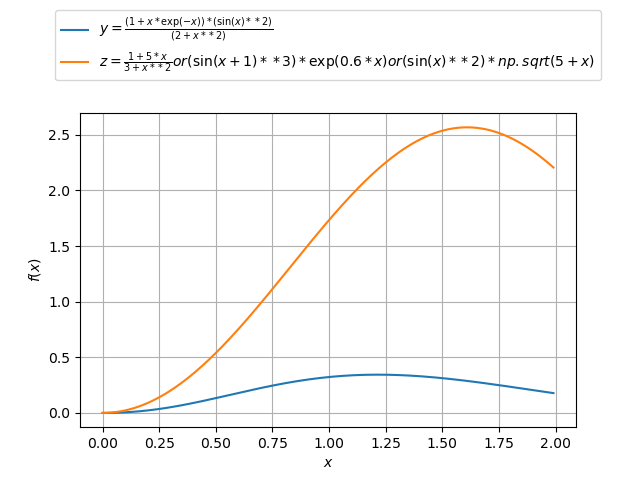
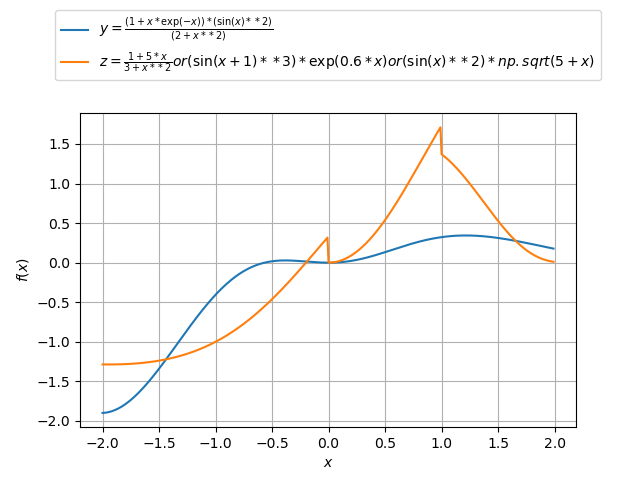
Commit Visualization lab1

diff --git a/src/edu/ua/khpi/infiz/visualization/lab1/main.py b/src/edu/ua/khpi/infiz/visualization/lab1/main.py
@@ -2,28 +2,32 @@ from matplotlib.ticker import MaxNLocator, FormatStrFormatter
 from collections import namedtuple
 from mpl_toolkits.mplot3d import Axes3D
 import matplotlib.pyplot as plt
-#from pylatex import *
 from matplotlib import cm
 from matplotlib.ticker import LinearLocator
 import numpy as np
 import matplotlib.pyplot as plt
 
-x = np.arange(0, 2, 0.01)
+x = np.arange(-2, 2, 0.01)
 y = (1 + x * np.exp(-x)) * (np.sin(x) ** 2) / (2 + x ** 2)
-def z_func():
-    z = 0
-    if x.all() <0:
+def z_func(x):
+    if x <0:
         z=(1+5*x)/(3+x**2)
-    elif x.all() >= 1:
+
+    elif x >= 1:
         z= (np.sin(x+1)**3)*np.exp(0.6*x)
+
     else:
         z=(np.sin(x)**2)*np.sqrt(5+x)
 
     return z
 
+Z = np.array([z_func(i) for i in x])
 ax = plt.subplot()
 plt1 = ax.plot(x, y, label=r"$y=\frac{(1+x*\exp(-x))*(\sin(x)**2)}{(2+x**2)}$")
-plt2 = ax.plot(x, z_func(), label=r'$z=\frac{1+5*x}{3+x**2} or (\sin(x+1)**3)*\exp(0.6*x) or (\sin(x)**2)*np.sqrt(5+x)$')
+plt2 = ax.plot(x, Z, label=r'$z=\frac{1+5*x}{3+x**2} or (\sin(x+1)**3)*\exp(0.6*x) or (\sin(x)**2)*np.sqrt(5+x)$')
+# plt2 = ax.plot(x, z1 , label=r'$z=\frac{1+5*x}{3+x**2} or (\sin(x+1)**3)*\exp(0.6*x) or (\sin(x)**2)*np.sqrt(5+x)$')
+# plt3 = ax.plot(x, z2, label=r'$z=\frac{1+5*x}{3+x**2} or (\sin(x+1)**3)*\exp(0.6*x) or (\sin(x)**2)*np.sqrt(5+x)$')
+# plt4 = ax.plot(x, z3, label=r'$z=\frac{1+5*x}{3+x**2} or (\sin(x+1)**3)*\exp(0.6*x) or (\sin(x)**2)*np.sqrt(5+x)$')
 plt.xlabel(r'$x$')
 plt.ylabel(r'$f(x)$')
 pos= ax.get_position()
@@ -174,7 +178,7 @@ ax.set_xticklabels(x_labels)
 ax.set_yticklabels(y_labels)
 ax.set_title('Світовий   товарний   експорт,   в   цінах   на   2000 р.')
 ax.set_ylabel('Країни')
-ax.set_xlabel('Роки')
+ax.set_xlabel('Рокі')
 ax.set_zlabel('Млрд долл')
 plt.savefig('photo6.png')
 plt.show()
